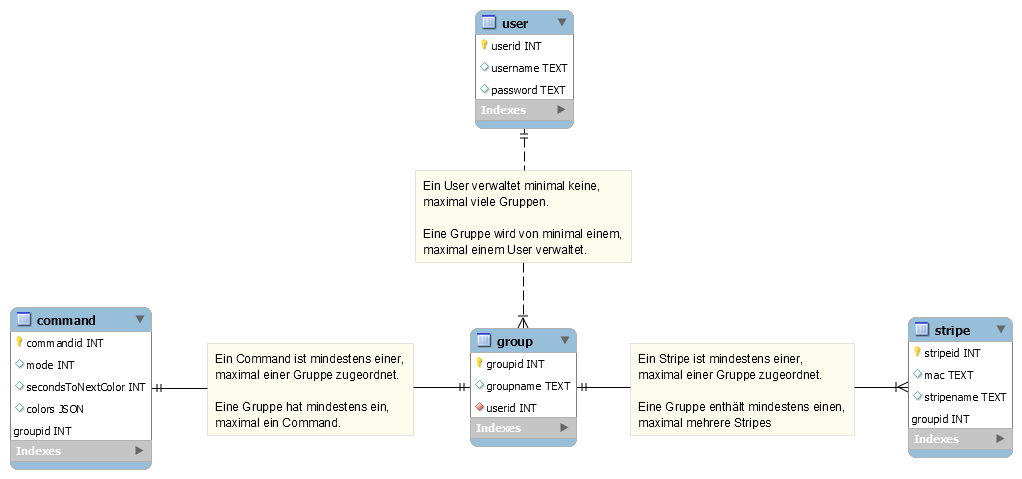
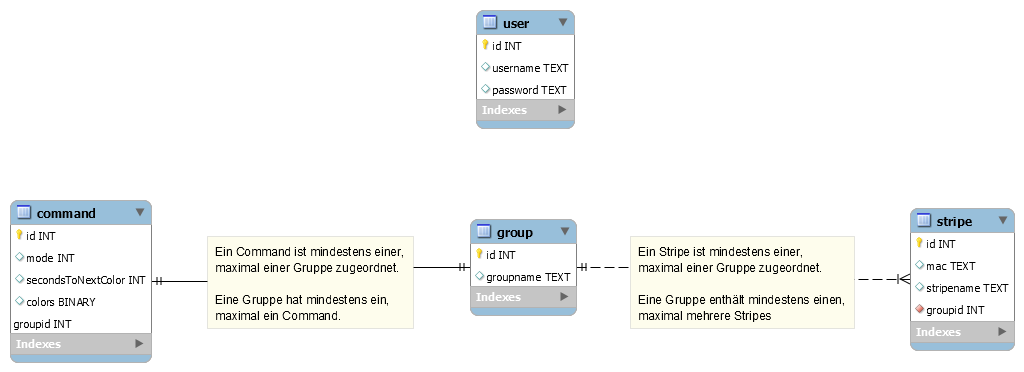
Updated DB Architecture

Changed region(s): [[0.0, 0.4731, 1.0, 1.0], [0.3943, 0.0, 0.6067, 0.4435]]

diff --git a/src/main/java/com/syn/MyLightsServer/group/persistence/Group.java b/src/main/java/com/syn/MyLightsServer/group/persistence/Group.java
@@ -1,7 +1,5 @@
 package com.syn.MyLightsServer.group.persistence;
 
-import com.syn.MyLightsServer.user.persistence.User;
-
 import javax.persistence.*;
 import javax.validation.constraints.NotNull;
 
@@ -16,17 +14,12 @@ public class Group {
 	@NotNull
 	private String groupName;
 
-	@NotNull
-	@ManyToOne(targetEntity = User.class, cascade = CascadeType.ALL)
-	private User user;
-
 	public Group() {
-		this("", new User());
+		this("");
 	}
 
-	public Group(@NotNull String groupName, @NotNull User user) {
+	public Group(@NotNull String groupName) {
 		this.groupName = groupName;
-		this.user = user;
 	}
 
 	public int getId() {
@@ -45,11 +38,4 @@ public class Group {
 		this.groupName = groupName;
 	}
 
-	public User getUser() {
-		return user;
-	}
-
-	public void setUser(User user) {
-		this.user = user;
-	}
 }

diff --git a/README.md b/README.md
@@ -1,5 +1,5 @@
 # MyLightsServer
 Server for MyLights Project
 
-DB Architecture
+ER Diagram
 ![DB Architecture](db/architektur.png)
